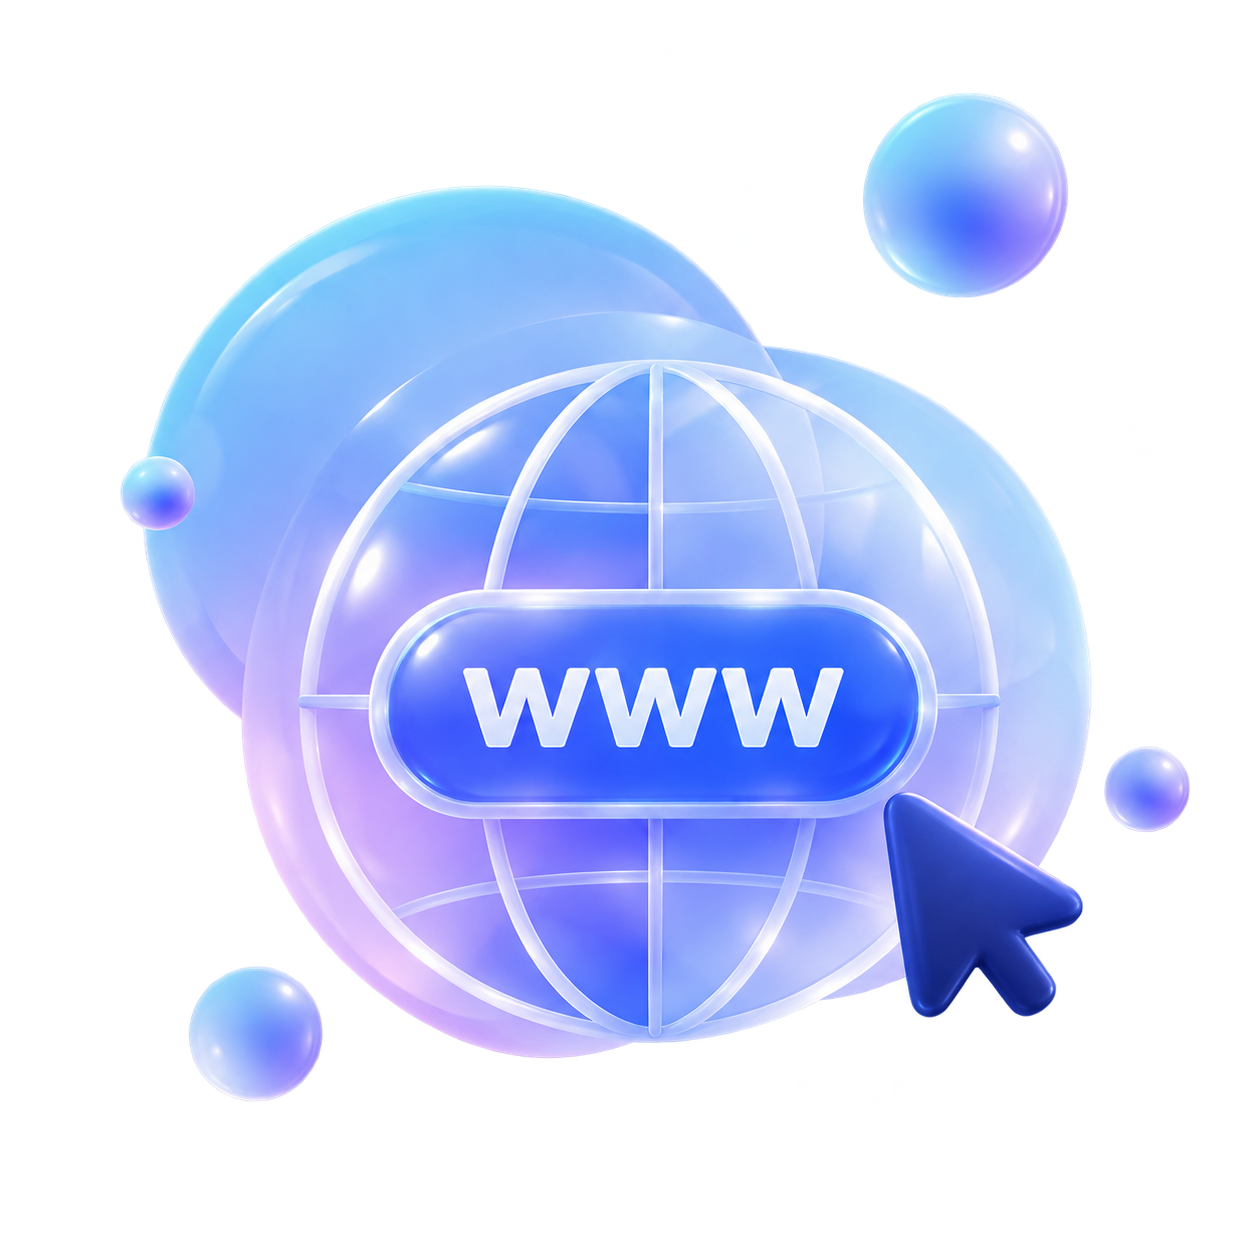
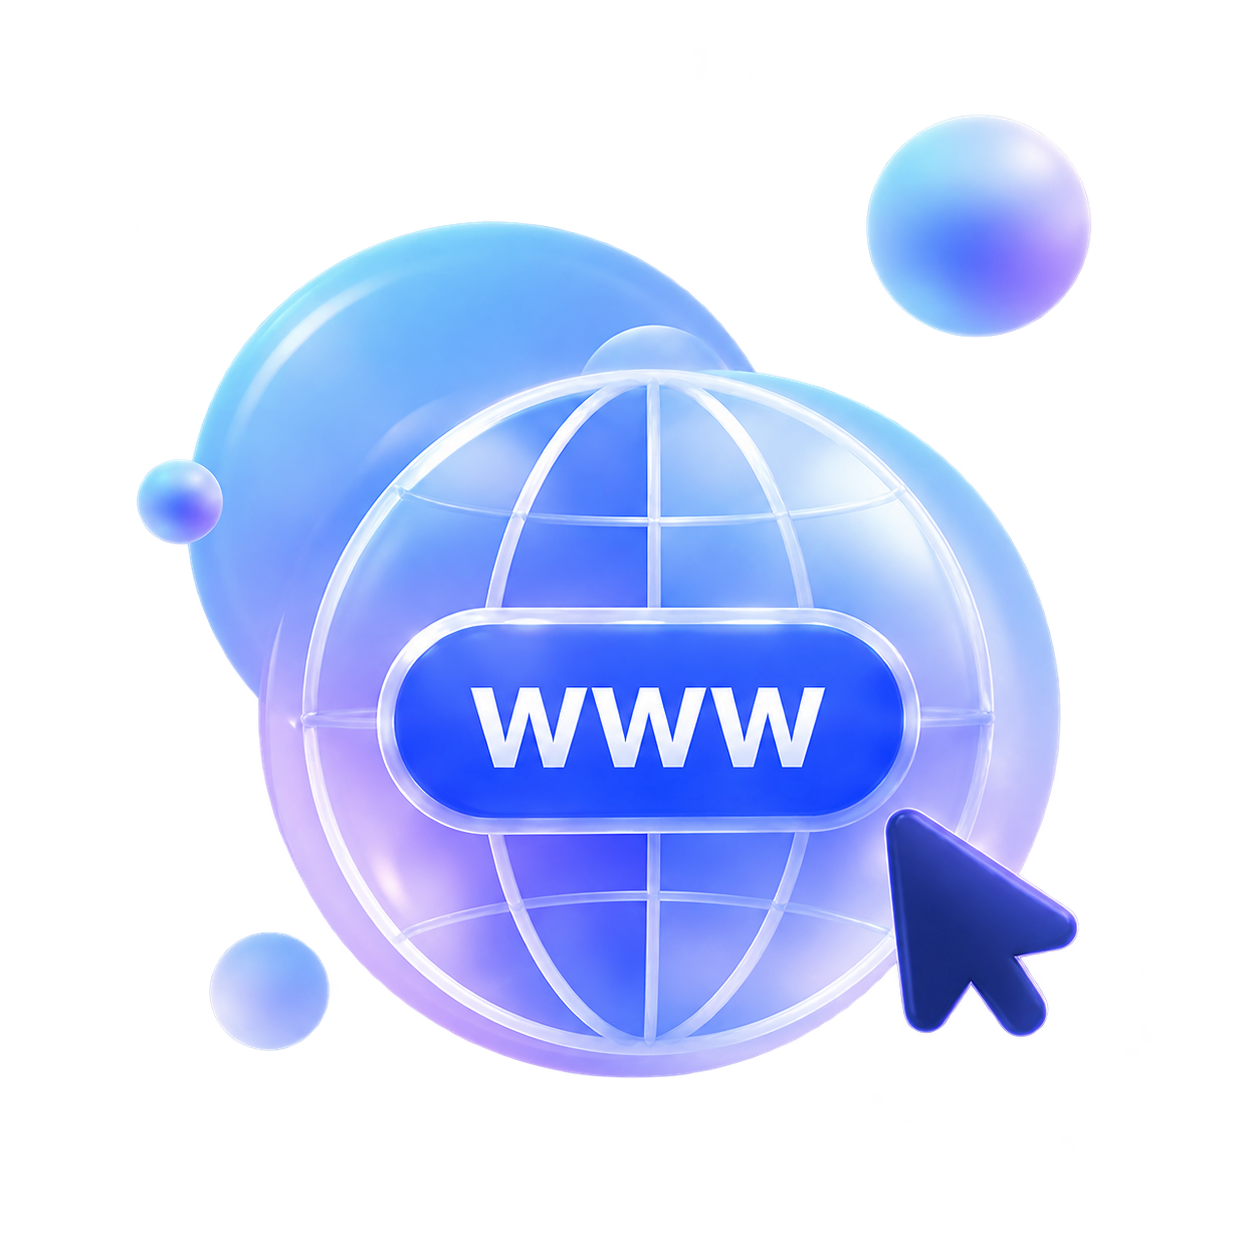
www

Changed region(s): [[0.0933, 0.1244, 0.9641, 0.9019], [0.6842, 0.0622, 0.8708, 0.2799]]

diff --git a/src/new-pages/settings/components/StoreSubscriptionSection.tsx b/src/new-pages/settings/components/StoreSubscriptionSection.tsx
@@ -159,9 +159,9 @@ const StoreSubscriptionSection = () => {
   const featureLabels =
     previewFeatures.length > 0
       ? previewFeatures.map(
-          (feature: { feature?: { name?: string } }) =>
-            feature.feature?.name ?? "—",
-        )
+        (feature: { feature?: { name?: string } }) =>
+          feature.feature?.name ?? "—",
+      )
       : FALLBACK_FEATURES;
 
   return (
@@ -171,12 +171,13 @@ const StoreSubscriptionSection = () => {
           <div className="rounded-2xl bg-slate-50 p-3 dark:bg-slate-900">
             <div className="flex h-full flex-col gap-3 rounded-[18px] px-5 py-[18px]">
               <div className="flex items-center justify-between">
-                <span className="rounded-full bg-emerald-500/10 px-3 py-1 text-xs font-medium text-emerald-500">
-                  {features.length || featureLabels.length}
-                </span>
+
                 <p className="text-lg font-bold text-slate-900 dark:text-slate-50">
                   المميزات الفعّالة
                 </p>
+                <span className="rounded-full bg-emerald-500/10 px-3 py-1 text-xs font-medium text-emerald-500">
+                  {features.length || featureLabels.length}
+                </span>
               </div>
 
               <ul className="space-y-[9px]">
@@ -185,30 +186,30 @@ const StoreSubscriptionSection = () => {
                     key={label}
                     className="flex items-center justify-end gap-[7px] text-[13px] text-slate-900 dark:text-slate-100"
                   >
-                    <span>{label}</span>
                     <span className="flex size-4 items-center justify-center rounded-full bg-emerald-500 text-white">
-                      <Check className="size-2.5 stroke-[3]" />
+                      <Check className="size-2.5 stroke-3" />
                     </span>
+                    <span className="w-full">{label}</span>
                   </li>
                 ))}
               </ul>
 
               <button
                 type="button"
-                className="text-left text-xs text-sky-500 hover:underline"
+                className="text-start text-xs text-sky-500 hover:underline"
                 onClick={() => navigate("/plans")}
               >
                 + {remainingFeatures > 0 ? remainingFeatures : 6} مميزات أخرى
               </button>
 
               <div className="mt-auto rounded-xl bg-violet-500/5 px-4 py-3.5">
-                <div className="mb-2 flex items-center justify-end gap-1.5">
+                <div className="mb-2 flex items-center justify-start gap-1.5">
+                  <Rocket className="size-4 text-violet-600" />
                   <span className="text-[13px] font-medium text-violet-600">
                     التطوير القادمة
                   </span>
-                  <Rocket className="size-4 text-violet-600" />
                 </div>
-                <p className="text-right text-xs leading-[1.65] text-violet-600">
+                <p className="text-start text-xs leading-[1.65] text-violet-600">
                   رقّي للباقة المتقدمة: منتجات وفروع أكثر + تقارير موسّعة
                 </p>
               </div>

diff --git a/src/components/AppSidebar.tsx b/src/components/AppSidebar.tsx
@@ -55,7 +55,7 @@ function SidebarStoreLogo({ storeLogoUrl }: { storeLogoUrl: string }) {
         />
       ) : null}
       {!ready ? (
-        <img src={melLogo} alt="mel.iq" className="size-5 object-contain" />
+        <img src={melLogo} alt="mel.iq" className="size-10 object-contain" />
       ) : null}
     </>
   );
@@ -84,17 +84,17 @@ function NavLink({
         "relative flex items-center gap-2.5 overflow-hidden transition-all",
         collapsed
           ? cn(
-              "mx-auto size-11 justify-center rounded-2xl",
-              active
-                ? "text-white shadow-lg shadow-violet-500/25"
-                : "text-slate-500 hover:bg-slate-100 dark:text-slate-400 dark:hover:bg-white/5",
-            )
+            "mx-auto size-11 justify-center rounded-2xl",
+            active
+              ? "text-white shadow-lg shadow-violet-500/25"
+              : "text-slate-500 hover:bg-slate-100 dark:text-slate-400 dark:hover:bg-white/5",
+          )
           : cn(
-              "w-full flex-row rounded-full px-3.5 py-2.5",
-              active
-                ? "text-white shadow-lg shadow-sky-500/20"
-                : "rounded-2xl text-slate-700 hover:bg-slate-100 dark:text-slate-200 dark:hover:bg-white/4",
-            ),
+            "w-full flex-row rounded-full px-3.5 py-2.5",
+            active
+              ? "text-white shadow-lg shadow-sky-500/20"
+              : "rounded-2xl text-slate-700 hover:bg-slate-100 dark:text-slate-200 dark:hover:bg-white/4",
+          ),
       )}
     >
       {active ? (

diff --git a/src/new-pages/settings/components/ProductsInventorySection.tsx b/src/new-pages/settings/components/ProductsInventorySection.tsx
@@ -17,7 +17,7 @@ const ProductsInventorySection = ({
 
   return (
     <SettingsCard title="المنتجات والمخزون">
-      <div className="grid grid-cols-1 gap-4 md:grid-cols-[1fr_225px]">
+      <div className="grid grid-cols-1 gap-4 md:gap-8 md:grid-cols-[1fr_225px]">
         <SettingsField label="الحد الادنى للمنتجات" htmlFor="lowStockThreshold">
           <div className="relative">
             <SettingsInput
@@ -37,7 +37,7 @@ const ProductsInventorySection = ({
 
         <div className="space-y-2">
           <SettingsLabel>حالة المنتج الافتراضية</SettingsLabel>
-          <div className="flex flex-col items-end gap-2">
+          <div className="flex flex-col items-start gap-2">
             <Switch
               checked={isPublished}
               activeLabel="نشر مباشر"

diff --git a/src/new-pages/settings/components/OrdersSection.tsx b/src/new-pages/settings/components/OrdersSection.tsx
@@ -38,7 +38,7 @@ const OrdersSection = ({
 
         <div className="space-y-2">
           <SettingsLabel>السماح بتعديل الطلبات</SettingsLabel>
-          <div className="flex flex-col items-end gap-2">
+          <div className="flex flex-col items-start gap-2">
             <Switch
               checked={storeForm.allowOrderEditing}
               activeLabel="مفعل"
@@ -55,7 +55,7 @@ const OrdersSection = ({
 
         <div className="space-y-2">
           <SettingsLabel>تفعيل الدفع عند الاستلام</SettingsLabel>
-          <div className="flex flex-col items-end gap-2">
+          <div className="flex flex-col items-start gap-2">
             <Switch
               checked={storeForm.cashOnDelivery}
               activeLabel="مفعل"

diff --git a/src/new-pages/settings/components/DomainPathPicker.tsx b/src/new-pages/settings/components/DomainPathPicker.tsx
@@ -62,7 +62,7 @@ const DomainPathPicker = ({
             "flex flex-col items-start justify-center gap-1.5",
             disabled && "cursor-not-allowed opacity-60",
             selected
-              ? "border-blue-500 bg-blue-50/70 shadow-sm dark:border-blue-400 dark:bg-blue-500/10"
+              ? "border-blue-300 bg-blue-50/70 shadow-sm dark:border-blue-800 dark:bg-blue-500/10"
               : "border-slate-200 hover:border-slate-300 dark:border-slate-800 dark:hover:border-slate-700",
           )}
         >

diff --git a/src/new-pages/settings/components/DomainBrandPanel.tsx b/src/new-pages/settings/components/DomainBrandPanel.tsx
@@ -63,7 +63,7 @@ const DomainBrandPanel = ({ onClose, className }: DomainBrandPanelProps) => (
     </div>
 
     <div>
-      <h3 className="text-2xl leading-snug font-bold text-slate-900 dark:text-slate-50">
+      <h3 className="text-3xl leading-snug font-black text-slate-800 dark:text-slate-50">
         اجعل علامتك أقرب إلى عملائك
       </h3>
       <p className="mt-2 text-sm leading-relaxed text-slate-500 dark:text-slate-400">

diff --git a/src/new-pages/settings/components/DomainSettingsSection.tsx b/src/new-pages/settings/components/DomainSettingsSection.tsx
@@ -268,7 +268,7 @@ const DomainSettingsSection = ({ onClose }: DomainSettingsSectionProps) => {
     </div>
   ) : (
     <div className="space-y-5">
-      <div className="grid gap-3 sm:grid-cols-2">
+      <div className="grid gap-4 sm:grid-cols-2">
         <CurrentValue
           label="نطاق المنصة الحالي"
           value={platformSlug ? `${platformSlug}.mel.iq` : "—"}
